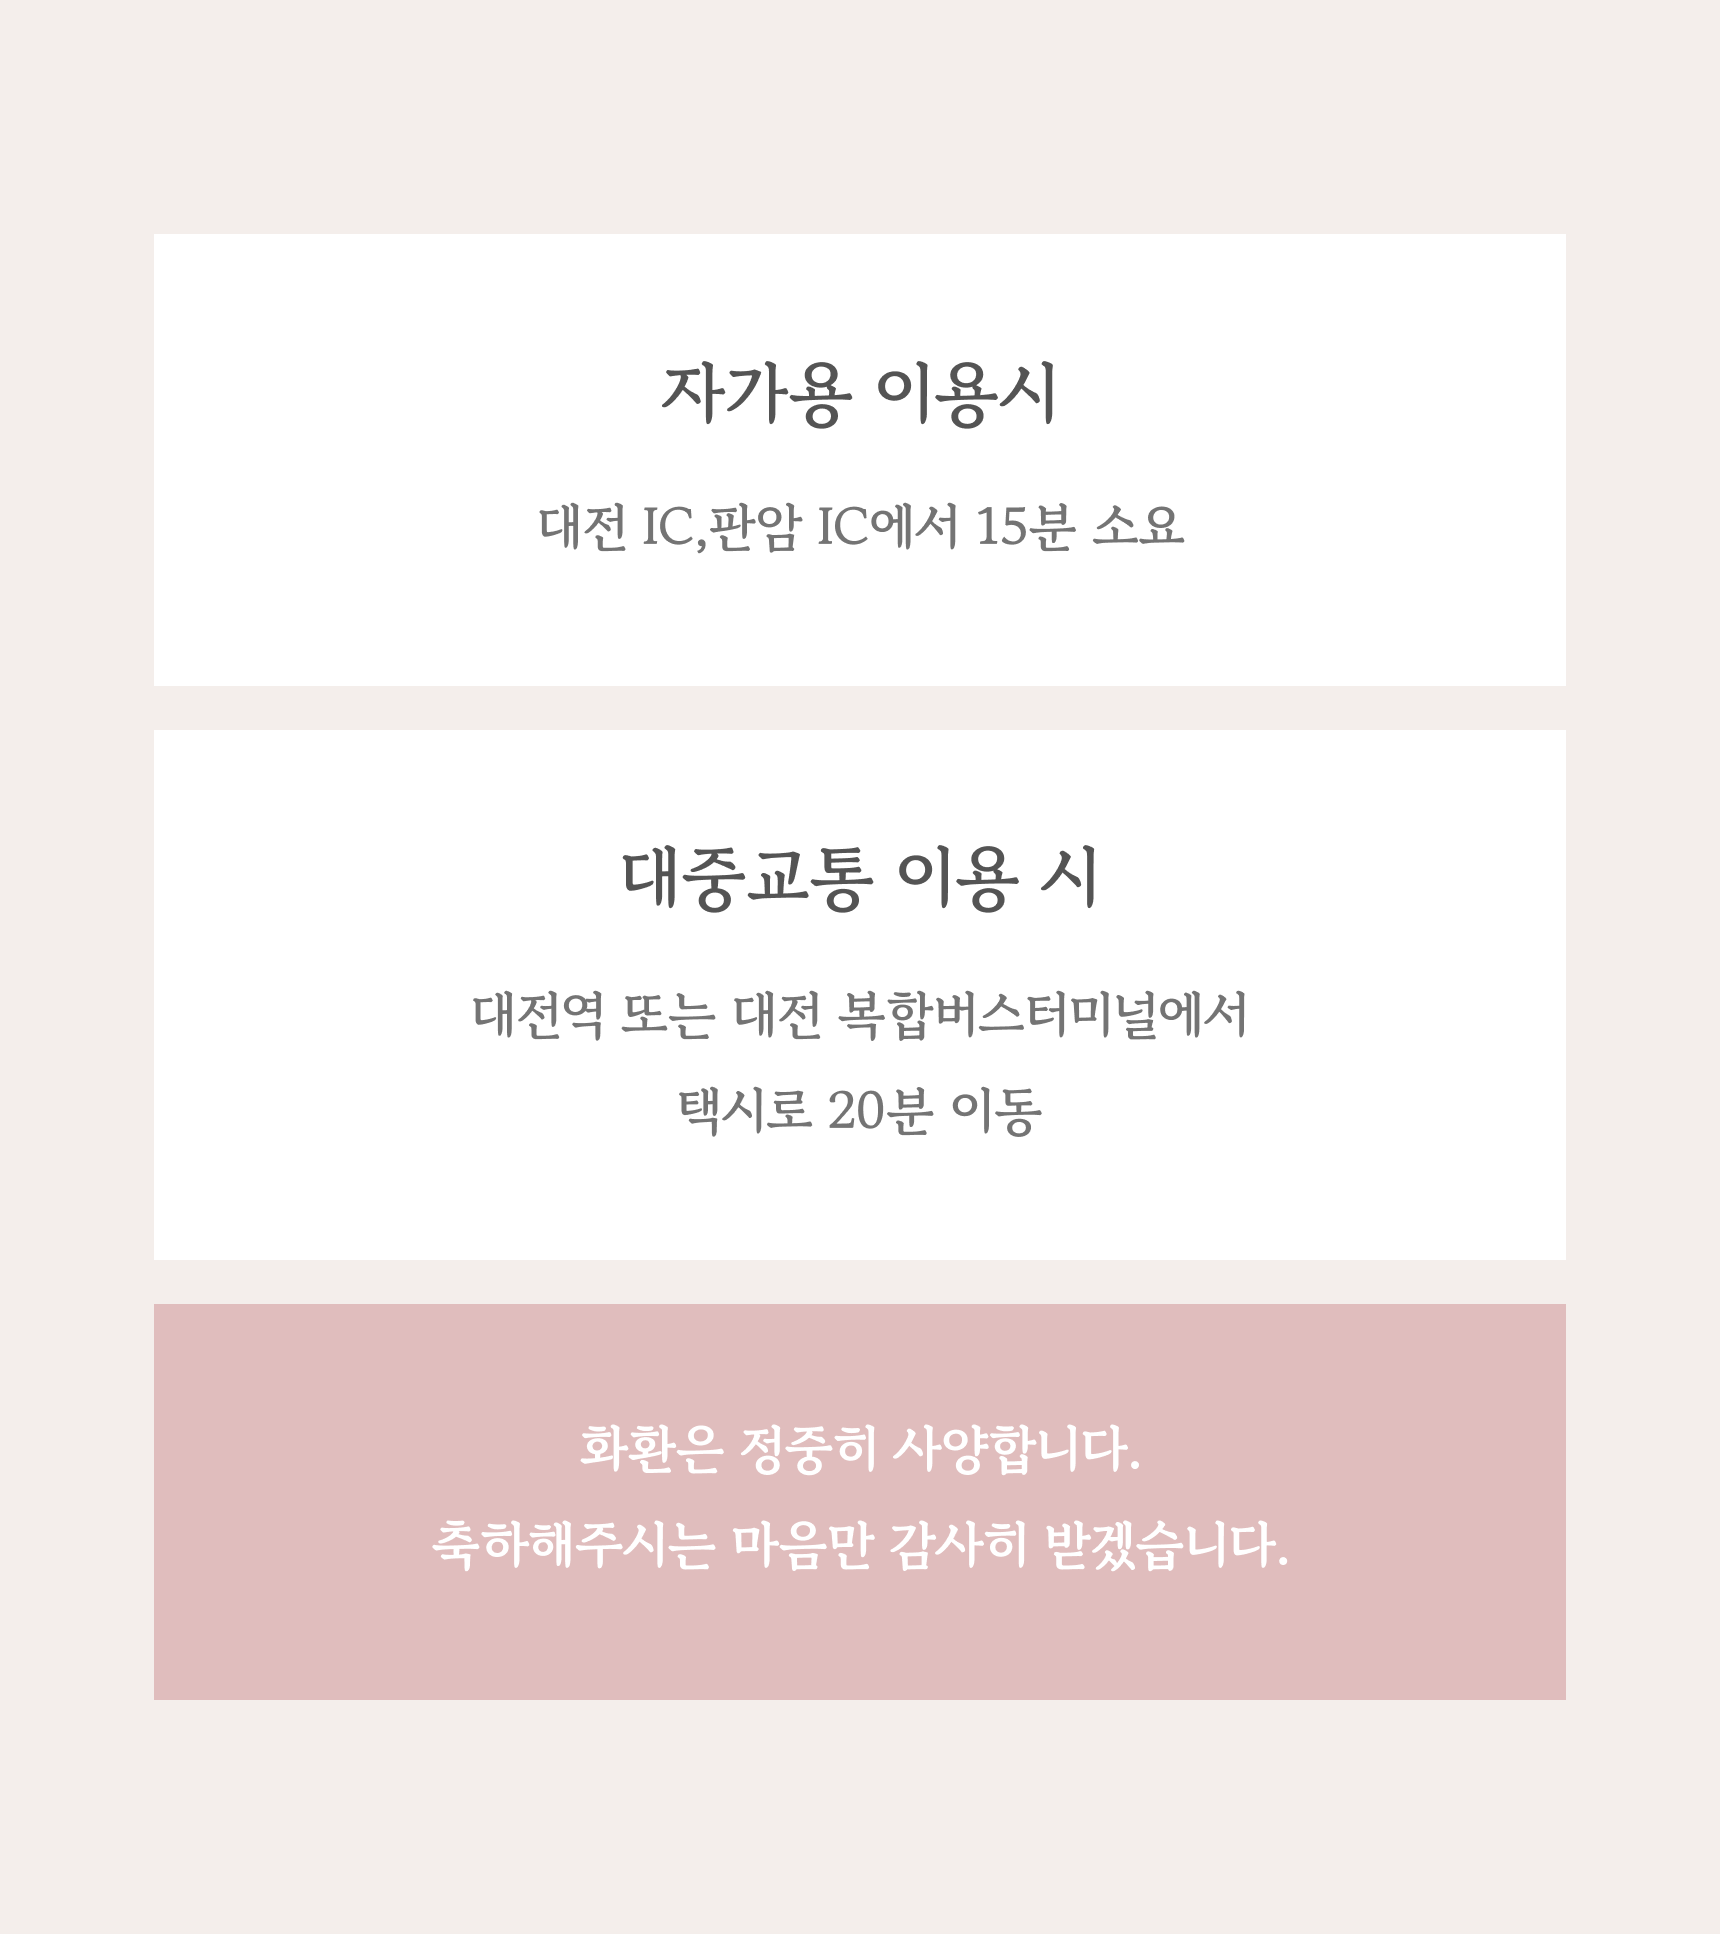
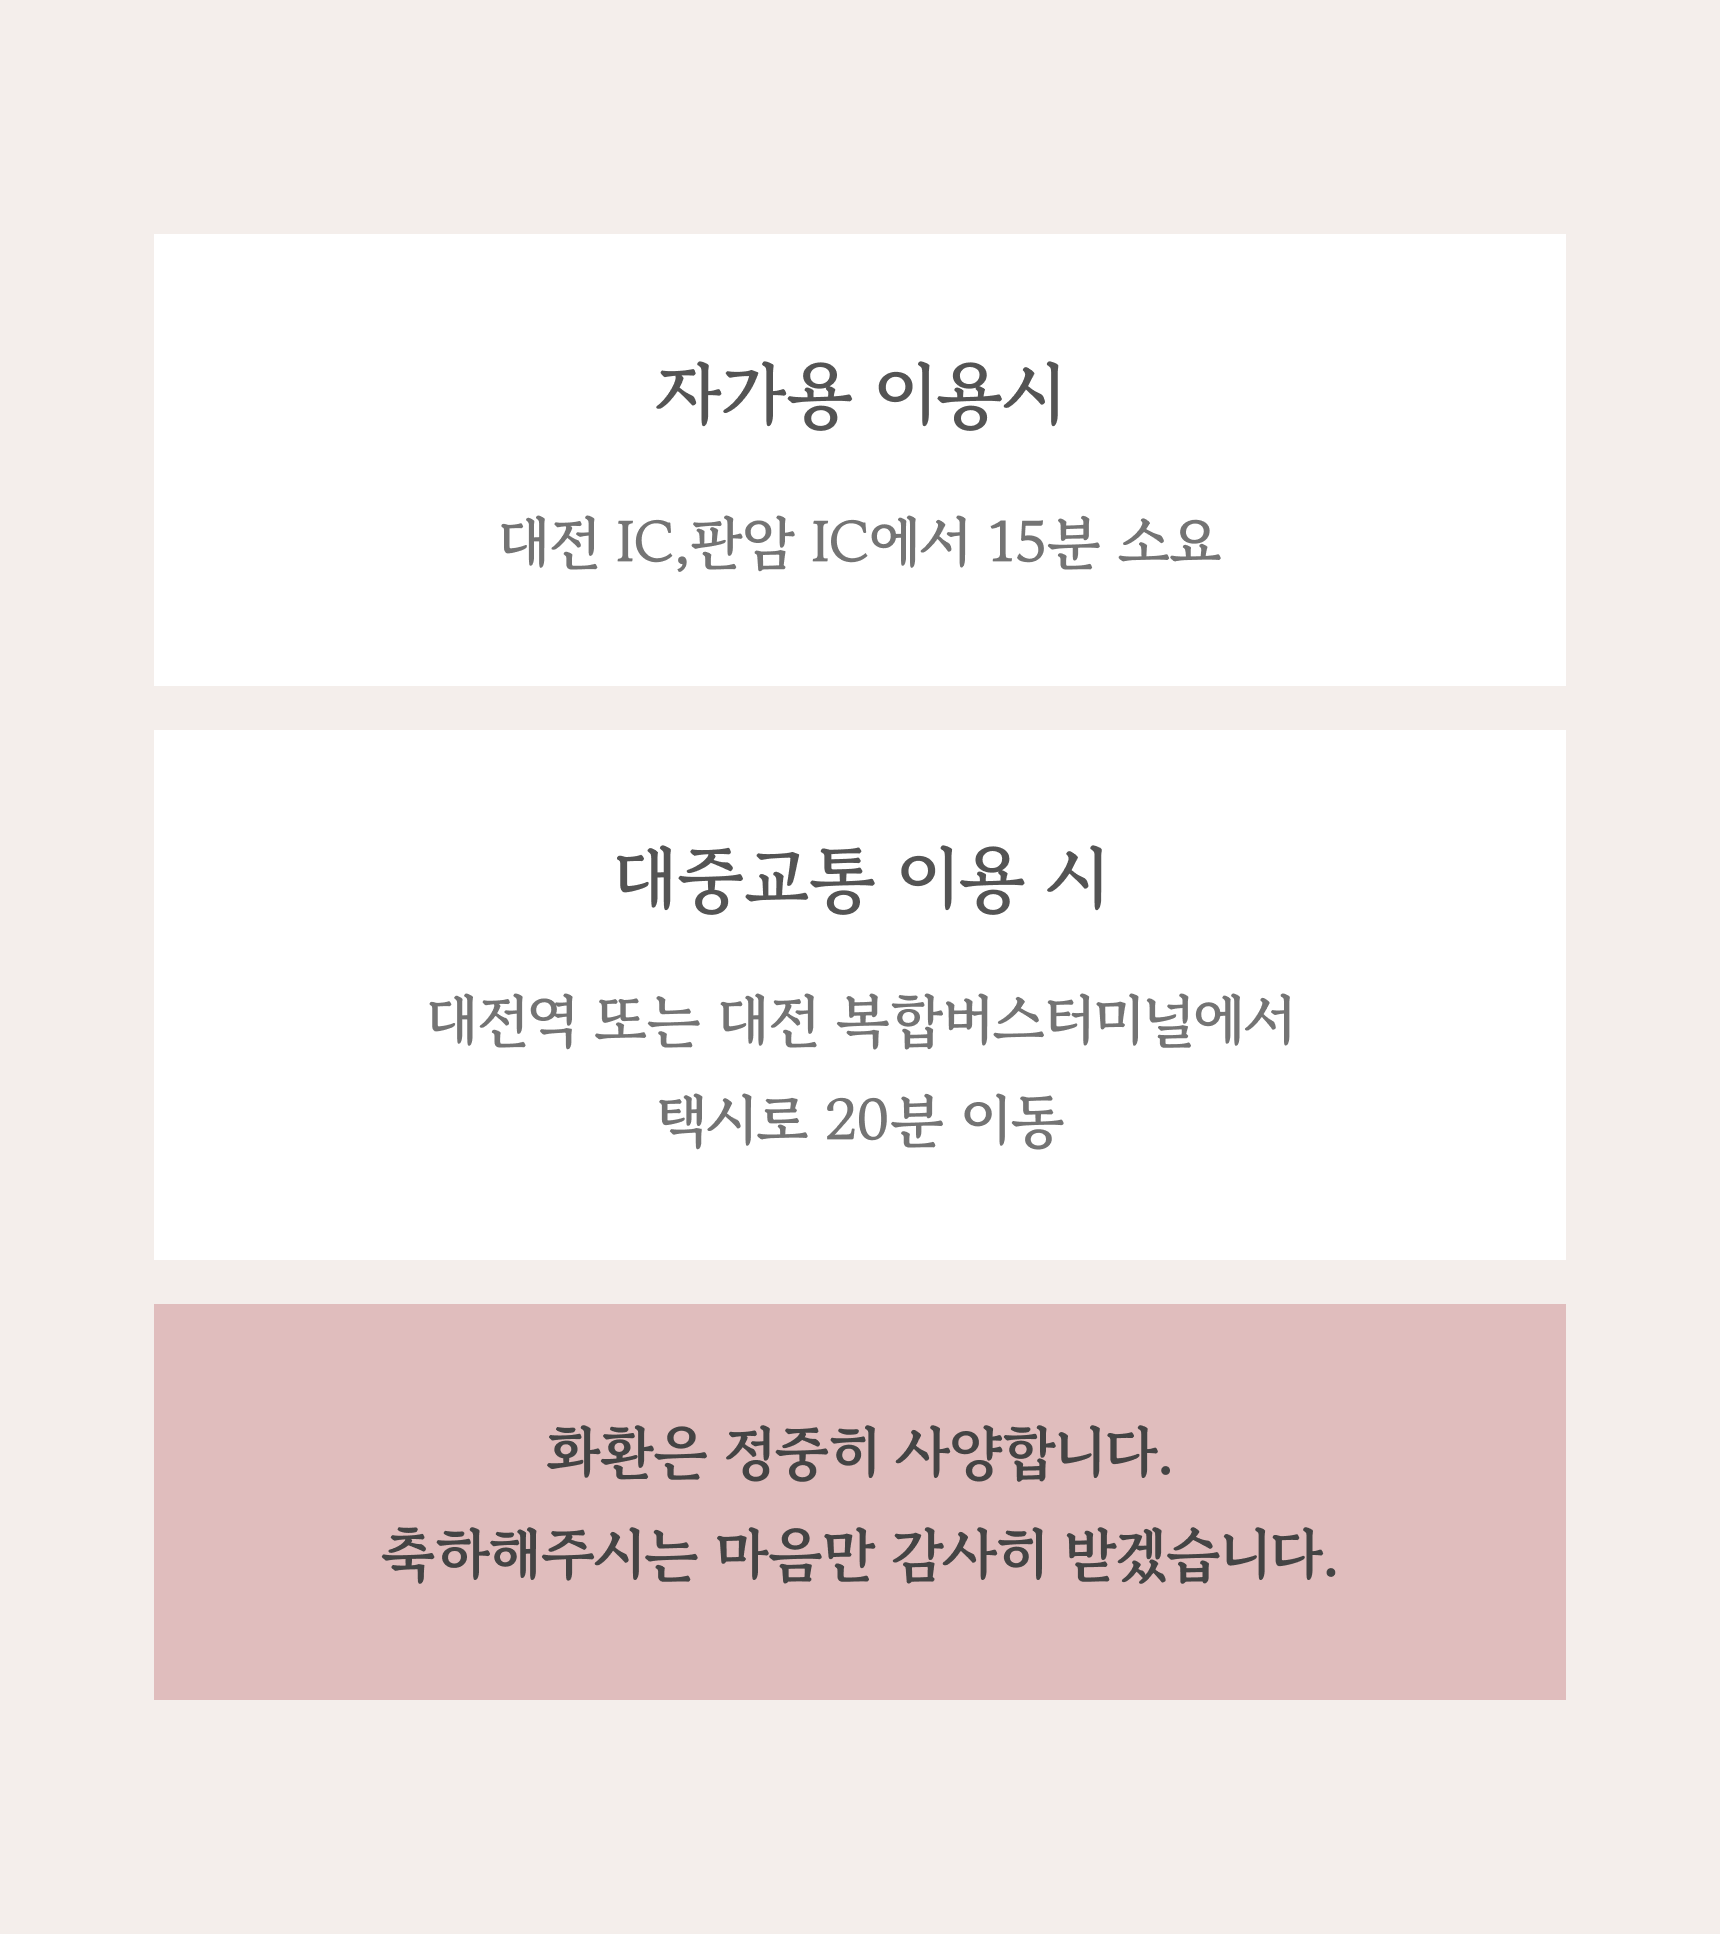
수정

diff --git a/style.css b/style.css
@@ -396,8 +396,8 @@ main {
 }
 
 #MapIconDiv {
-  color: #ffffff;
-  font-size: 13px;
+  color: #222222;
+  font-size: 14px;
   text-align: center;
   background-color: white;
   display: flex;
